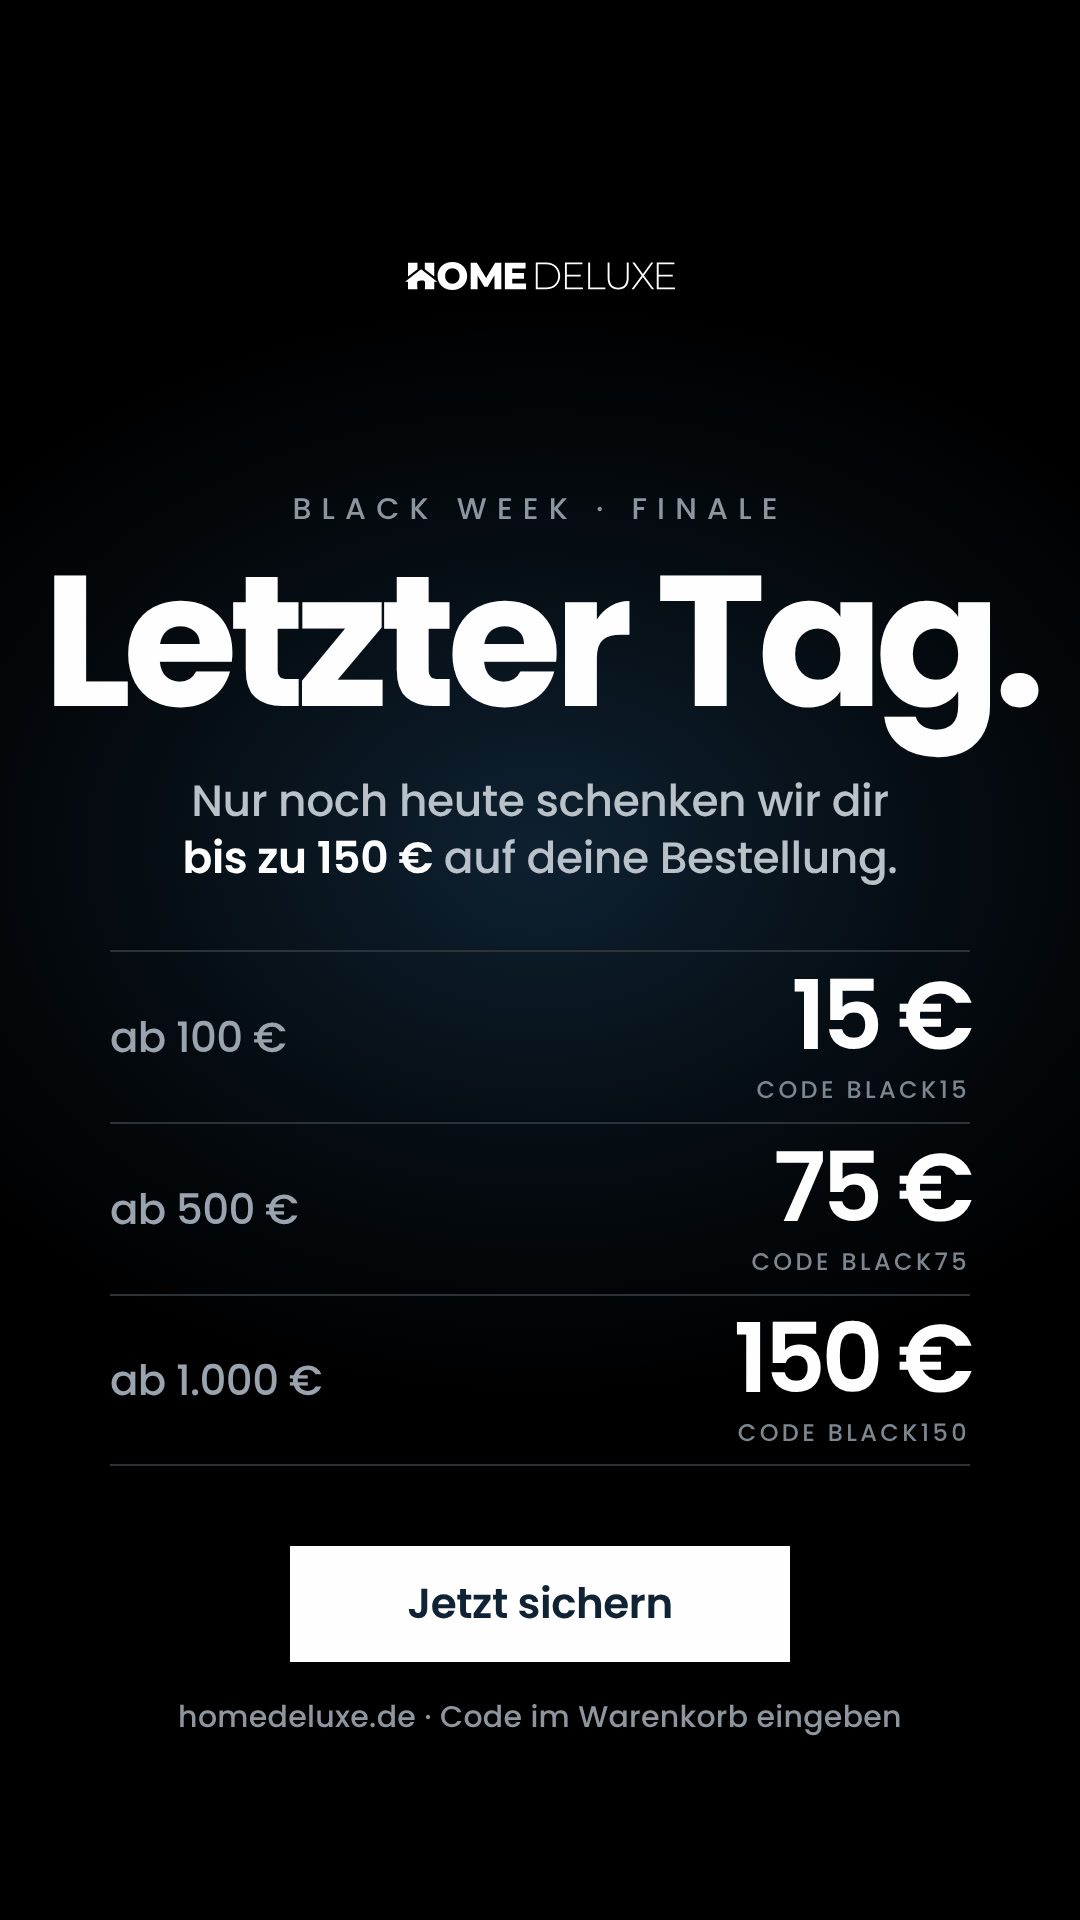
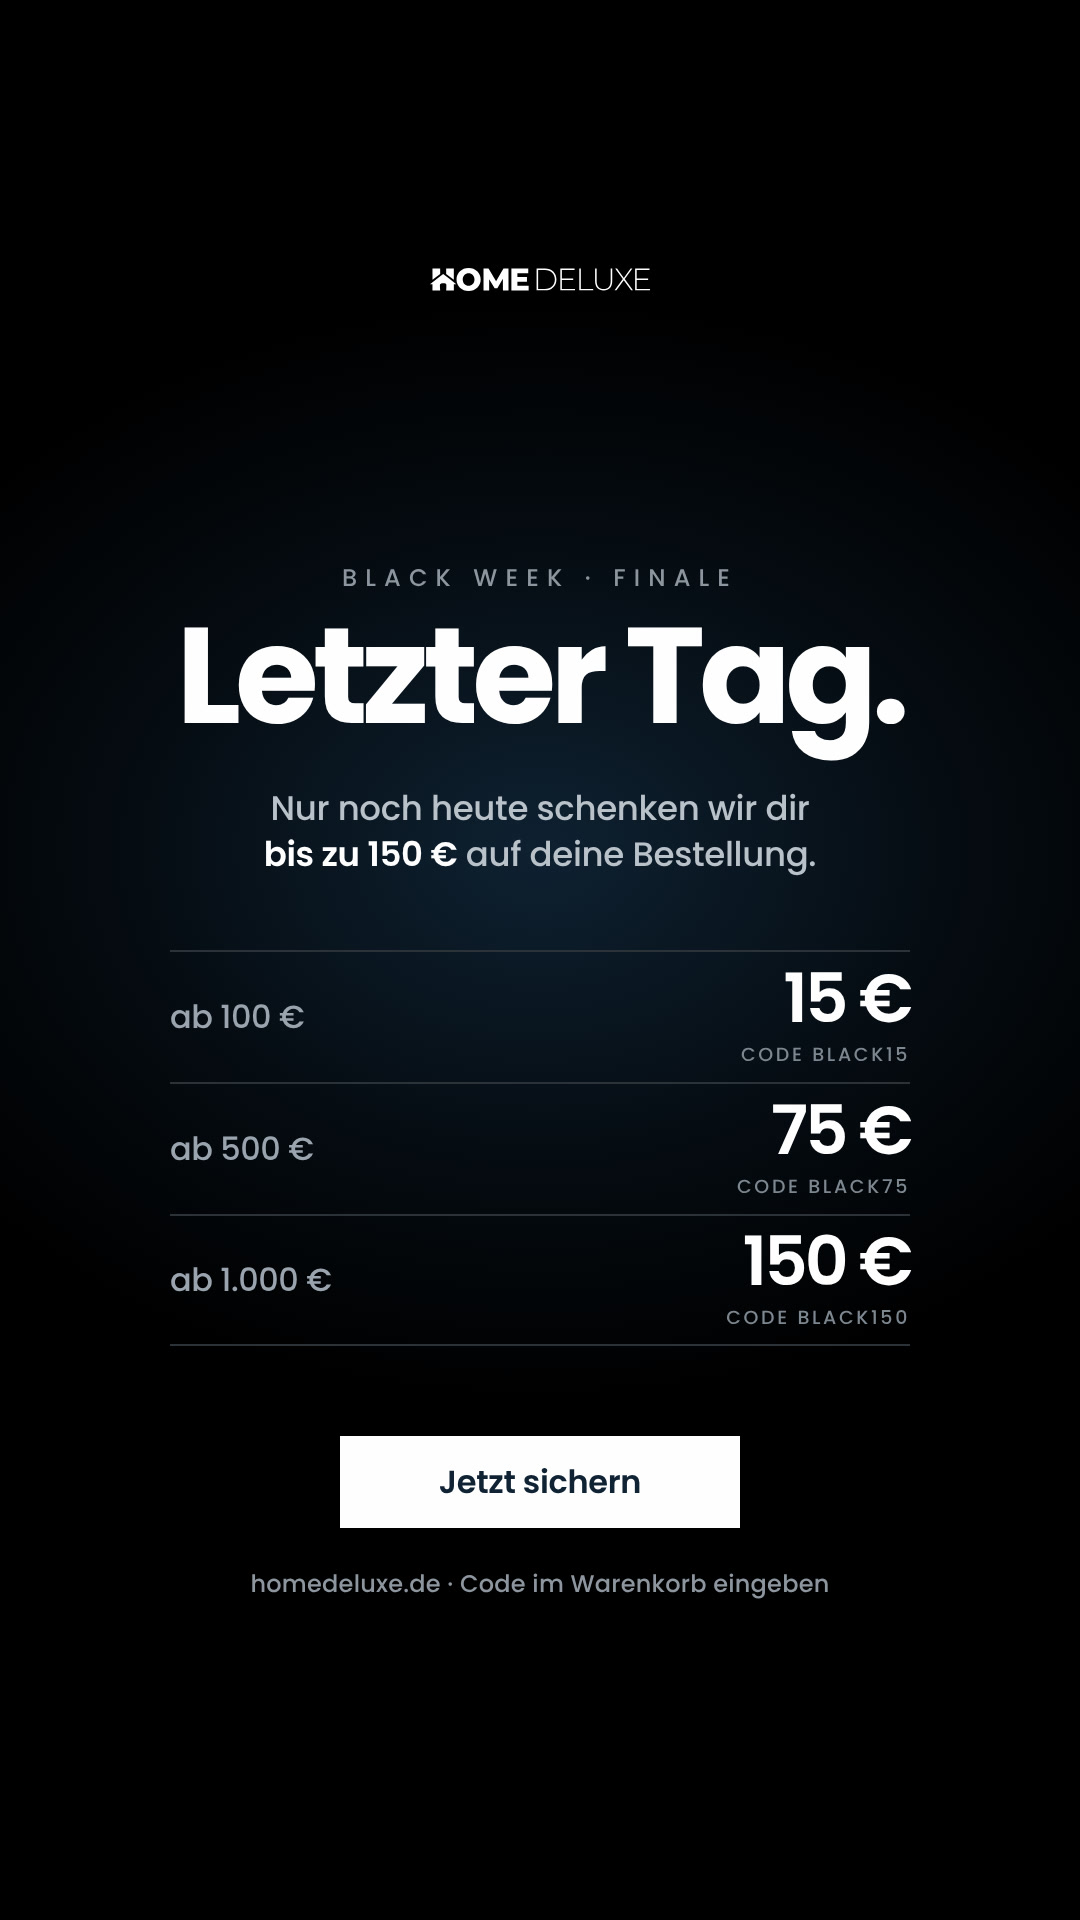
Black-Week-Story Letzter Tag: Schriften kleiner, mehr Weißraum
Claude-Session: https://claude.ai/code/session_01KK1Fk2kyngEhQB9zV52aiK

diff --git a/stories/src/blackweek-letzter-tag/story.html b/stories/src/blackweek-letzter-tag/story.html
@@ -17,21 +17,21 @@
   .glow { position: absolute; left: -200px; top: 300px; width: 1480px; height: 1100px;
     background: radial-gradient(ellipse closest-side, rgba(15, 35, 52, .95), rgba(15, 35, 52, .35) 55%, rgba(0, 0, 0, 0)); }
   .c { position: absolute; left: 0; width: 1080px; text-align: center; }
-  #logo { position: absolute; left: 405px; top: 262px; width: 270px; }
-  .kicker { top: 486px; font-weight: 500; font-size: 30px; letter-spacing: .34em; color: #8d969f; }
-  h1 { top: 548px; font-weight: 700; font-size: 186px; line-height: 1; letter-spacing: -.045em; }
-  .sub { top: 772px; font-weight: 500; font-size: 44px; line-height: 1.3; letter-spacing: -.01em; color: #b9c1c9; }
+  #logo { position: absolute; left: 430px; top: 268px; width: 220px; }
+  .kicker { top: 560px; font-weight: 500; font-size: 24px; letter-spacing: .34em; color: #8d969f; }
+  h1 { top: 608px; font-weight: 700; font-size: 136px; line-height: 1; letter-spacing: -.045em; }
+  .sub { top: 786px; font-weight: 500; font-size: 34px; line-height: 1.35; letter-spacing: -.01em; color: #b9c1c9; }
   .sub b { color: #fefefe; font-weight: 600; }
-  .tbl { position: absolute; left: 110px; width: 860px; top: 950px; }
-  .row { height: 172px; border-top: 2px solid #2b3238; display: flex; align-items: center; justify-content: space-between; }
+  .tbl { position: absolute; left: 170px; width: 740px; top: 950px; }
+  .row { height: 132px; border-top: 2px solid #2b3238; display: flex; align-items: center; justify-content: space-between; }
   .row:last-child { border-bottom: 2px solid #2b3238; }
-  .row .l { font-weight: 500; font-size: 42px; letter-spacing: -.015em; color: #9aa4ae; }
+  .row .l { font-weight: 500; font-size: 32px; letter-spacing: -.015em; color: #9aa4ae; }
   .row .r { text-align: right; }
-  .row .r b { display: block; font-weight: 600; font-size: 96px; line-height: 1; letter-spacing: -.045em; }
-  .row .r span { display: block; font-weight: 500; font-size: 24px; letter-spacing: .14em; color: #7d8790; margin-top: 8px; }
-  .cta { position: absolute; left: 290px; top: 1546px; width: 500px; height: 116px; background: #fefefe; color: #0f2334;
-    font-weight: 600; font-size: 42px; line-height: 116px; text-align: center; letter-spacing: -.01em; }
-  .hint { top: 1694px; font-weight: 500; font-size: 30px; color: #8d969f; letter-spacing: .01em; }
+  .row .r b { display: block; font-weight: 600; font-size: 68px; line-height: 1; letter-spacing: -.045em; }
+  .row .r span { display: block; font-weight: 500; font-size: 19px; letter-spacing: .14em; color: #7d8790; margin-top: 7px; }
+  .cta { position: absolute; left: 340px; top: 1436px; width: 400px; height: 92px; background: #fefefe; color: #0f2334;
+    font-weight: 600; font-size: 32px; line-height: 92px; text-align: center; letter-spacing: -.01em; }
+  .hint { top: 1566px; font-weight: 500; font-size: 24px; color: #8d969f; letter-spacing: .01em; }
 </style>
 </head>
 <body>
